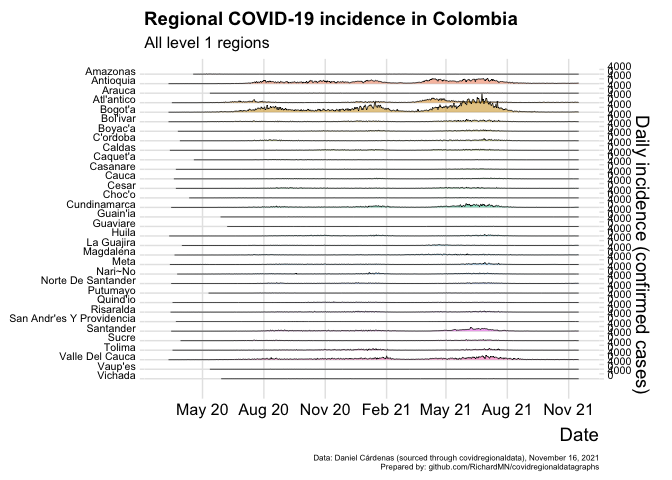
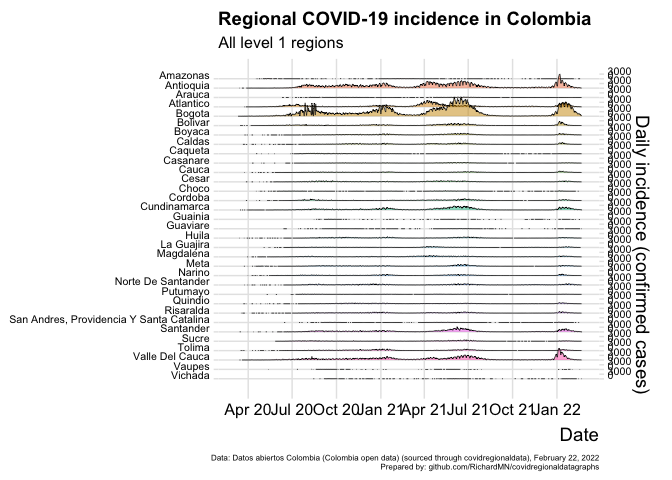
Updated run including new Colombia sources

Changed region(s): [[0.0, 0.0, 0.9375, 0.875], [0.3125, 0.9375, 0.875, 0.9688]]

diff --git a/docs/COVID-19 regional graphs - Colombia.md b/docs/COVID-19 regional graphs - Colombia.md
@@ -5,8 +5,8 @@ Sub-national COVID graphs for Colombia
 
 These plots are prepared using
 [covidregionaldata](https://epiforecasts.io/covidregionaldata) to
-download data published by [Daniel
-Cárdenas](https://github.com/danielcs88/colombia_covid-19/).
+download data published by [Datos abiertos Colombia (Colombia open
+data)](https://www.datos.gov.co/Salud-y-Protecci-n-Social/Casos-positivos-de-COVID-19-en-Colombia/gt2j-8ykr).
 
 # Plot ridgeline incidence for all level 1 regions
 
@@ -22,6 +22,12 @@ gaps in testing or reporting due to weekends or holidays are visible.
 Where there are many level 1 regions, the top 10 regions are displayed.
 ![](/covidregionaldatagraphs/images/Colombia-ridgeline-top-ten-level-1-graphs-1.png)<!-- -->
 
+# Plot ridgeline incidence for top 10 level 2 regions
+
+The top 10 level 2 regions are shown.
+
+![](/covidregionaldatagraphs/images/Colombia-ridgeline-top-ten-level-2-graphs-1.png)<!-- -->
+
 The following charts are a form of aggregated heatmap. They are a
 stacked column display of the number of regions for each country with
 average weekly incidence falling into certain ranges. This gives an
@@ -32,3 +38,10 @@ to week.
 # Waterfall chart case counts - level 1
 
 ![](/covidregionaldatagraphs/images/Colombia-waterfall-case-count-level-1-1.png)<!-- -->
+
+# Waterfall chart case counts - level 2
+
+Plotting these charts for level 2 regions typically shows smoother
+curves.
+
+![](/covidregionaldatagraphs/images/Colombia-waterfall-case-count-level-2-graph-1.png)<!-- -->
